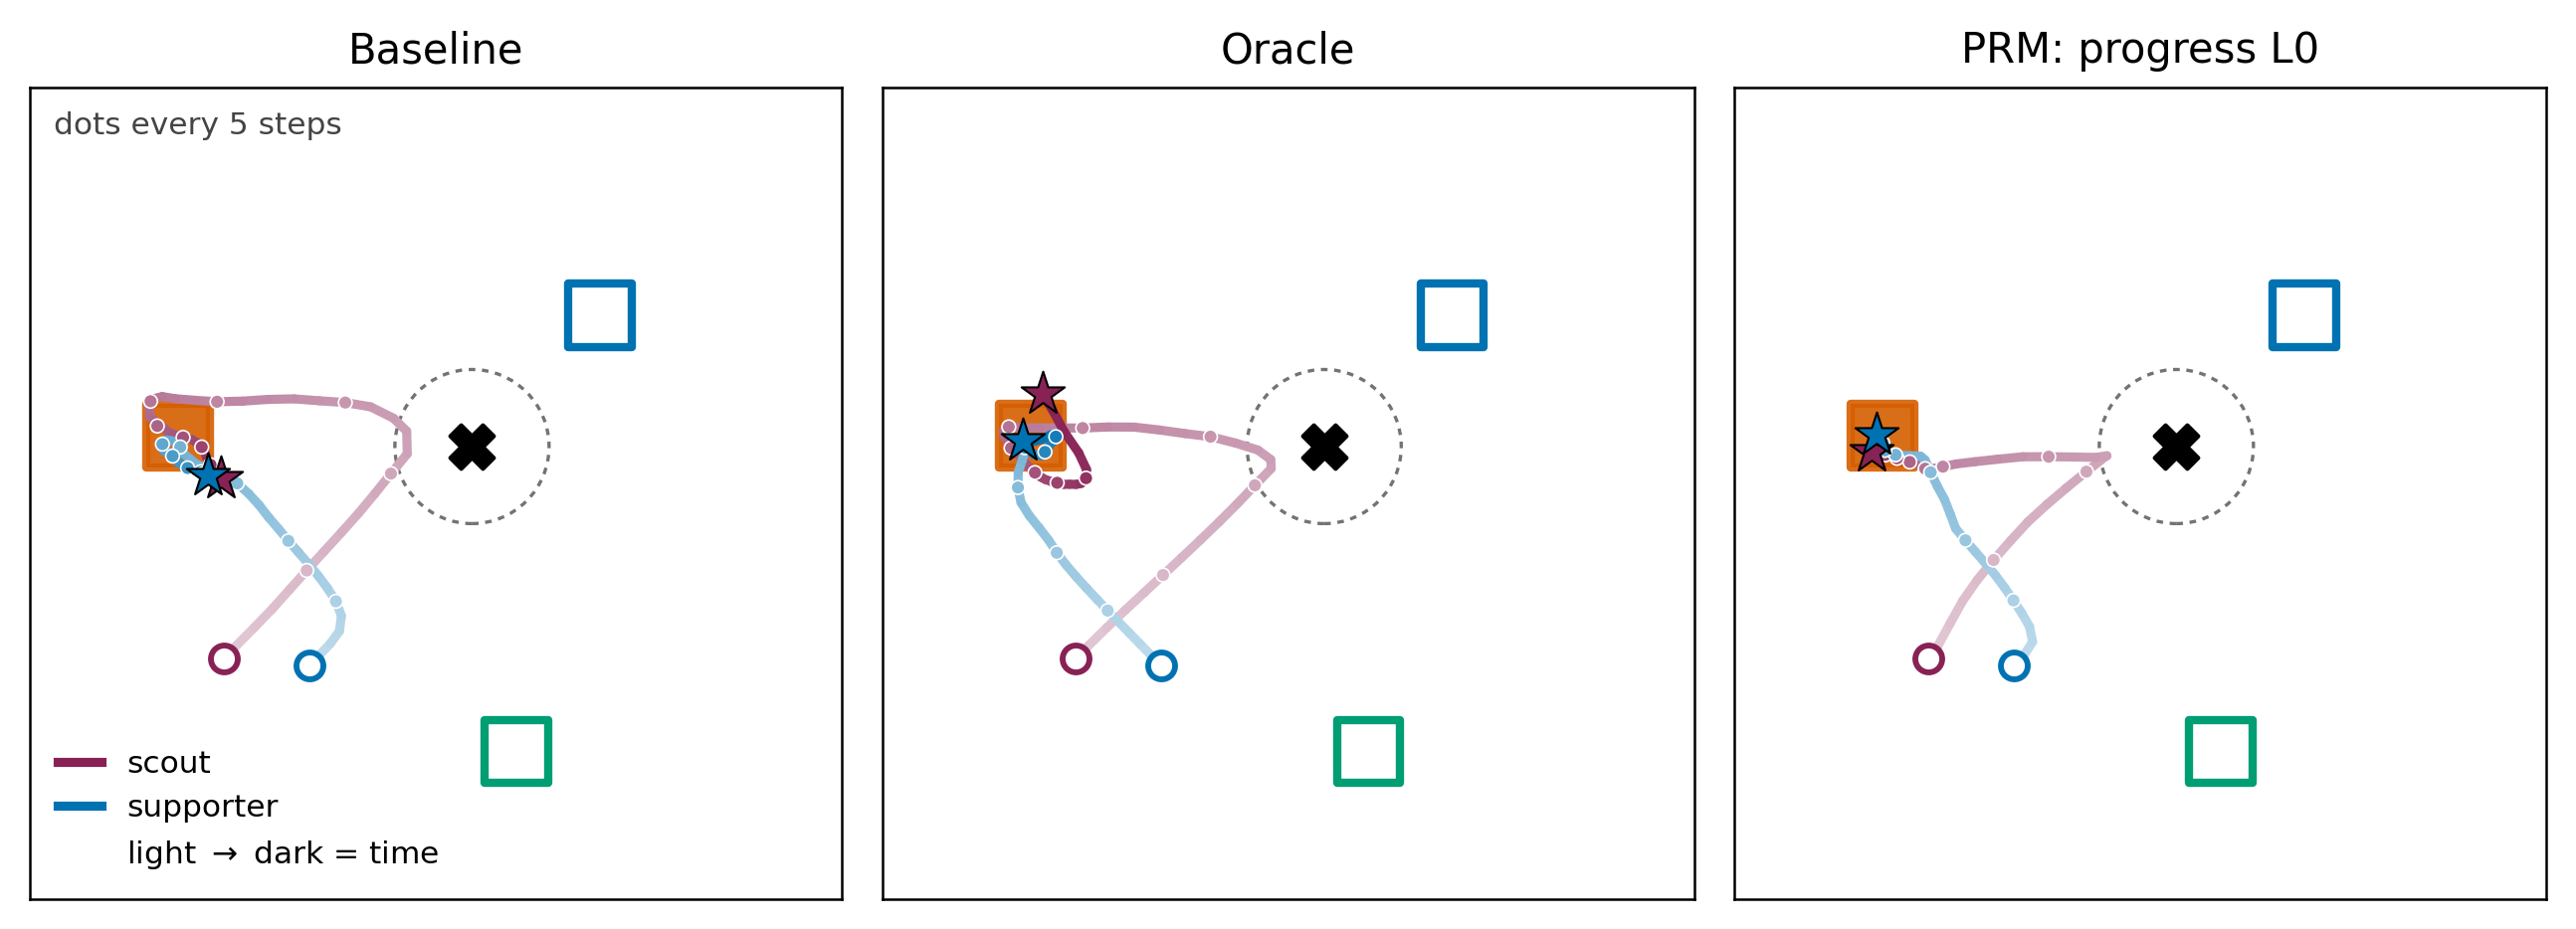
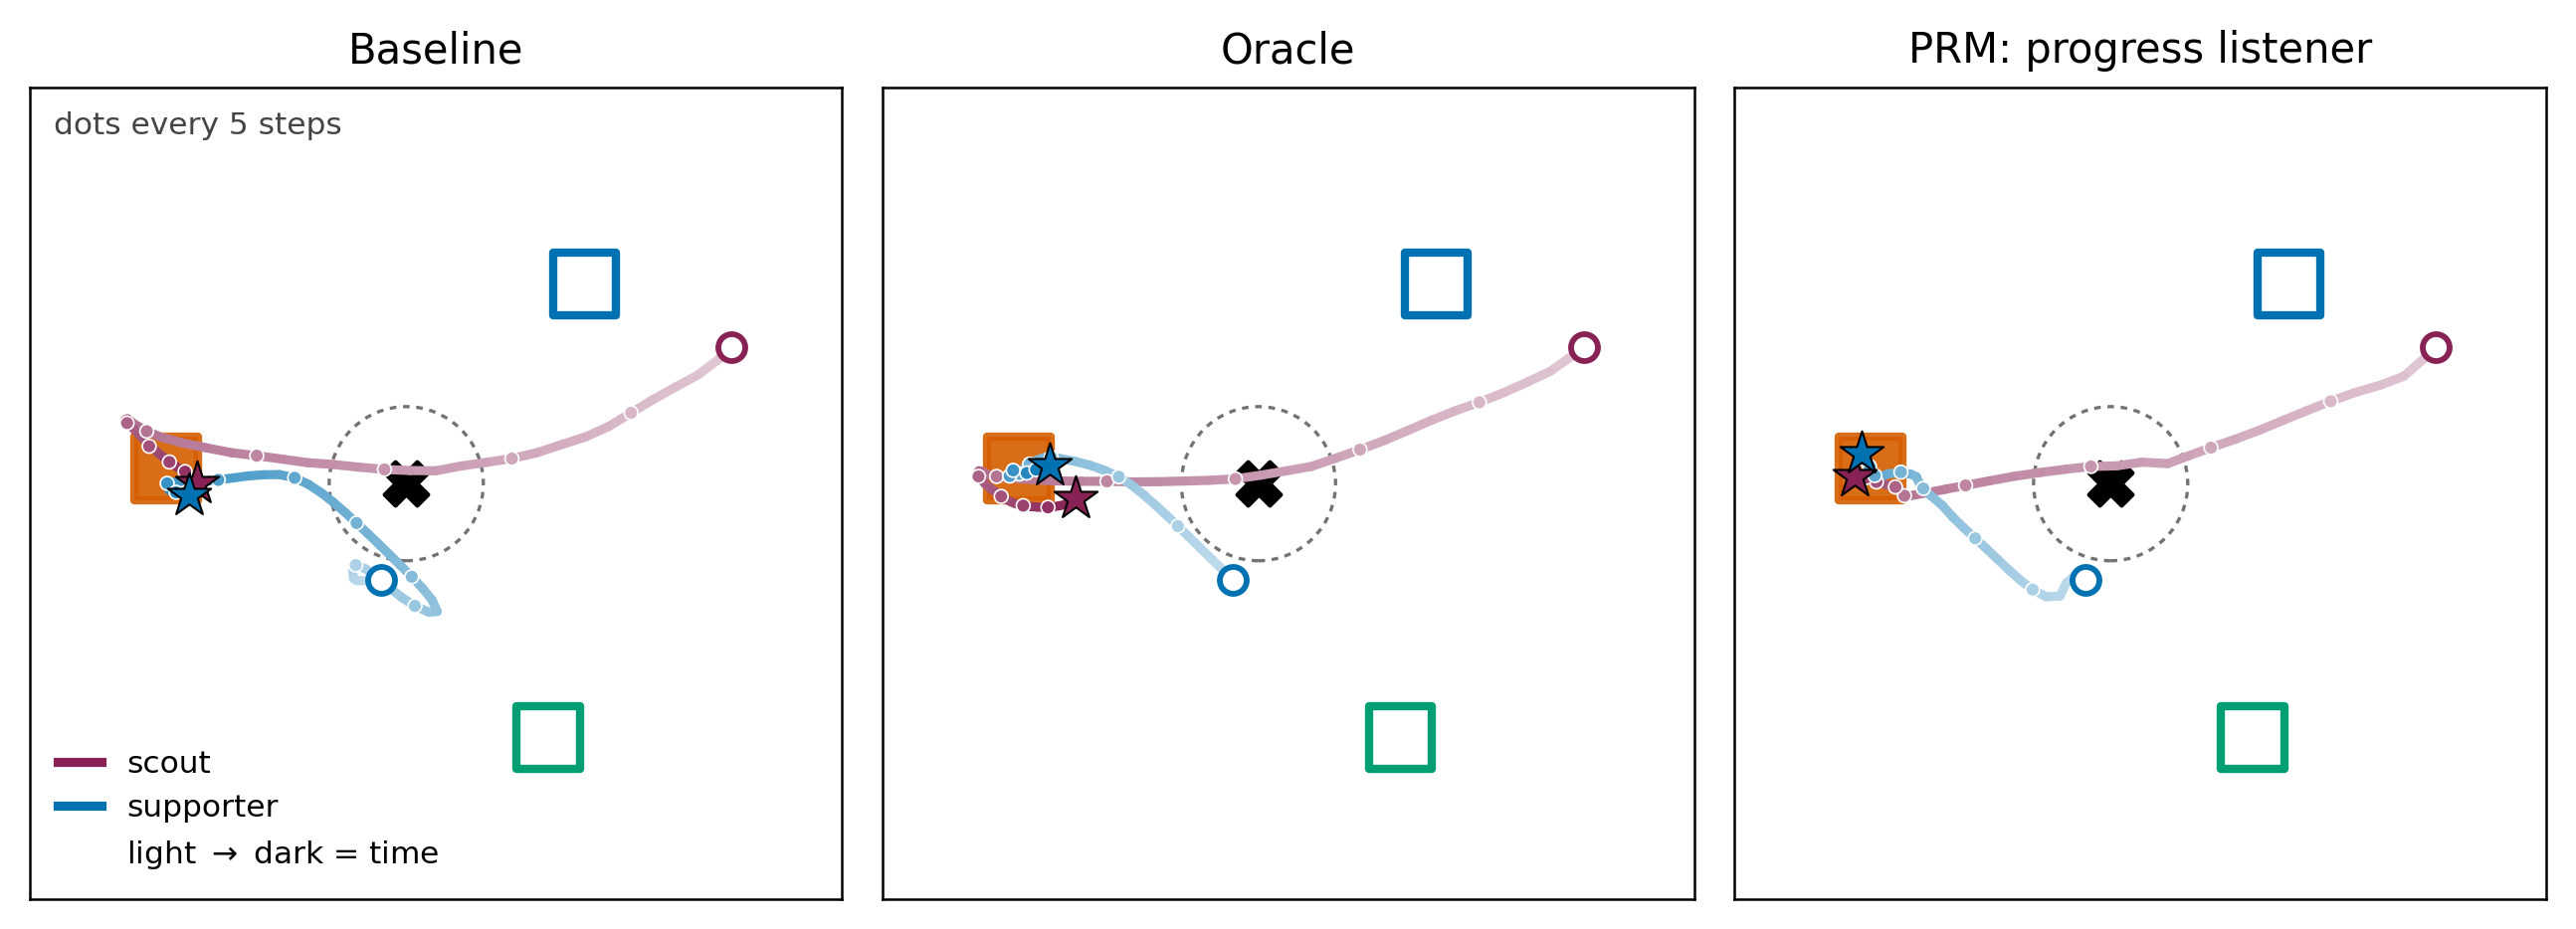
Major revision from 3-reviewer panel (unanimous 5/10 borderline)
Claims: boundary law -> two-tier empirical regularity (0.51 CI [.42,.59]
pooled vs 0.68 CI [.57,.79] well-behaved; failure modes dominated the
premium^2-weighted fit); equivalence -> structural correspondence with
temperature/scope caveats; CRSA recovery softened to correspondence of
objective forms.

Theory: new Prop 2 (gradient saturation, O(eps) bound) gives the
audience-matching principle formal content; Prop 1 reframed (any
listener is a BA bound, learned = tightest, recursion loosens it);
Strouse conditional-MI distinction corrected; Bellman policy-dependence
and non-Markov caveats added.

Stats: blind control fixed (significantly worse, pure signal cost, was
indistinguishable); multiple-comparison policy stated; ear 30% marked
suggestive; lambda/VOI provenance disclosed; robustness grid relabeled
as learned_ear; Table 2 n/SEM/R_comm corrected.

New: sec 5.1.1 bounded-learned-listener ablation + table; trajectory
figure regenerated at a diagnostic episode (baseline commits t=17 vs
PRM t=1); forest blind point rescaled by blind premium; boundary map
shows both fits; 8 missing related-work citations added; appendix env
constants + reproducibility statement; de-anonymizing phrases removed.

diff --git a/experiments/boundary_map.py b/experiments/boundary_map.py
@@ -47,6 +47,25 @@ def agg(resroot, cond, key="r_ext"):
     return np.array(v)
 
 
+def boot_slope(triples, n_boot=10000, seed=0):
+    """Bootstrap the origin-constrained slope over seeds within settings.
+
+    triples: list of (base_vals, orac_vals, gain_vals) arrays per setting.
+    """
+    rng = np.random.default_rng(seed)
+    ks = np.empty(n_boot)
+    for i in range(n_boot):
+        xs, ys = [], []
+        for b, o, g in triples:
+            bb = rng.choice(b, len(b)); oo = rng.choice(o, len(o))
+            gg = rng.choice(g, len(g))
+            xs.append(oo.mean() - bb.mean())
+            ys.append(gg.mean() - bb.mean())
+        x, y = np.array(xs), np.array(ys)
+        ks[i] = (x * y).sum() / (x * x).sum()
+    return np.percentile(ks, [2.5, 97.5])
+
+
 def sem(v):
     return v.std(ddof=1) / math.sqrt(len(v)) if len(v) > 1 else 0.0
 
@@ -69,7 +88,7 @@ def main():
         gain_e = math.sqrt(sem(g) ** 2 + sem(b) ** 2)
         t = gain / gain_e if gain_e else 0
         rows.append(dict(label=label, grp=grp, prem=prem, gain=gain,
-                         prem_e=prem_e, gain_e=gain_e, t=t,
+                         prem_e=prem_e, gain_e=gain_e, t=t, vals=(b, o, g),
                          n=min(len(b), len(o), len(g))))
 
     print(f"{'setting':22s} {'n':>2s} {'premium':>14s} {'gain':>14s} {'ratio':>6s} {'t':>5s}")
@@ -84,7 +103,17 @@ def main():
     x = np.array([r["prem"] for r in fit])
     y = np.array([r["gain"] for r in fit])
     k = float((x * y).sum() / (x * x).sum())
-    print(f"\nproportional fit over {len(fit)} resolvable settings: gain = {k:.2f} x premium")
+    lo, hi = boot_slope([r["vals"] for r in fit])
+    print(f"\nproportional fit over {len(fit)} resolvable settings: "
+          f"gain = {k:.2f} x premium  (bootstrap 95% CI [{lo:.2f}, {hi:.2f}])")
+
+    # same fit excluding the settings the paper classifies as failure modes
+    ok = [r for r in fit if r["grp"] == "core"]
+    xo = np.array([r["prem"] for r in ok]); yo = np.array([r["gain"] for r in ok])
+    k_ok = float((xo * yo).sum() / (xo * xo).sum())
+    lo2, hi2 = boot_slope([r["vals"] for r in ok])
+    print(f"excluding failure-mode settings ({len(ok)} points): "
+          f"gain = {k_ok:.2f} x premium  (bootstrap 95% CI [{lo2:.2f}, {hi2:.2f}])")
 
     LABEL_OFF = {
         "Scout-support": (-14, 10), "Minefield": (8, 3),
@@ -103,8 +132,10 @@ def main():
     ax.plot(xs, xs, color="#aaaaaa", lw=0.9, ls=":", zorder=1)
     ax.text(0.098, 0.094, "oracle", fontsize=6.8, color="#888888",
             ha="right", va="bottom", rotation=34)
-    ax.plot(xs, k * xs, color="#111111", lw=1.6, ls="--", zorder=2,
-            label=f"gain = {k:.2f} $\\times$ premium")
+    ax.plot(xs, k_ok * xs, color="#111111", lw=1.6, zorder=2,
+            label=f"well-behaved: {k_ok:.2f} $\\times$ premium")
+    ax.plot(xs, k * xs, color="#555555", lw=1.2, ls="--", zorder=2,
+            label=f"all settings: {k:.2f} $\\times$ premium")
     seen = set()
     for r in resolv:
         c = COLORS[r["grp"]]

diff --git a/experiments/paper_figs.py b/experiments/paper_figs.py
@@ -54,10 +54,12 @@ def fig_forest(figdir):
     add("Ear + $R_{comm}$", RS3, "learned_ear", "baseline", "oracle", COLORS["learned_ear"])
     add("Ear ($\\lambda{=}0$)", RS3, "ear", "baseline", "oracle", COLORS["ear"])
     add("Learned $L_\\theta$ (speaker only)", RS3, "learned", "baseline", "oracle", COLORS["learned"])
-    # blind control: gain under blinding, scaled by the sighted premium
+    # blind control: gain under blinding, scaled by the blind premium
+    # (blind oracle - blind baseline), i.e. the same normalization every
+    # other row gets in its own setting
     bp, bb = seed_means(SUITE, "blind_progress"), seed_means(SUITE, "blind_baseline")
-    b0, o0 = seed_means(RS3, "baseline"), seed_means(RS3, "oracle")
-    prem = o0.mean() - b0.mean()
+    bo = seed_means(SUITE, "blind_oracle")
+    prem = bo.mean() - bb.mean()
     rng = np.random.default_rng(1)
     boots = [(rng.choice(bp, len(bp)).mean() - rng.choice(bb, len(bb)).mean()) / prem
              for _ in range(10000)]